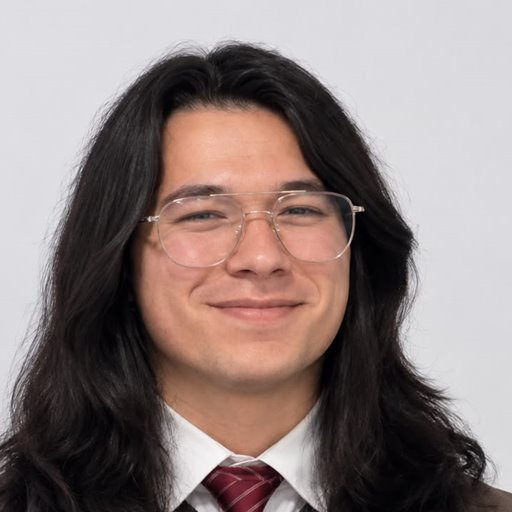
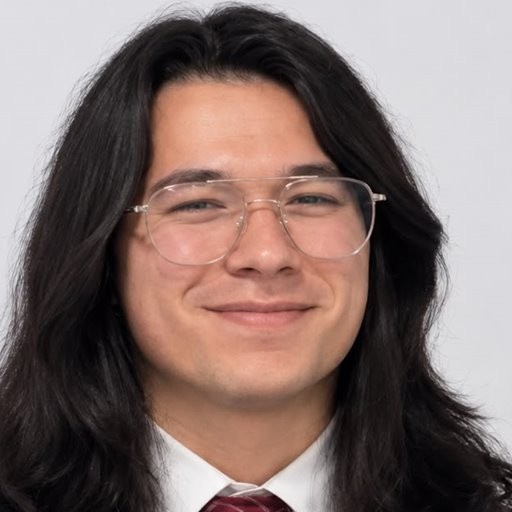
fix: centrar la cara en la foto de perfil
Recorte 620×620 centrado en el rostro y ?v=3 para evitar la caché.

diff --git a/index.html b/index.html
@@ -74,7 +74,7 @@
 
     <!-- Hero ---------------------------------------------------------------- -->
     <section class="card hero" aria-labelledby="hero-name">
-      <img class="hero-photo" src="/assets/img/retrato.jpg" alt="Leonel Navarro Valades" width="128" height="128" />
+      <img class="hero-photo" src="/assets/img/retrato.jpg?v=3" alt="Leonel Navarro Valades" width="128" height="128" />
       <div>
         <h1 id="hero-name">Leonel Navarro Valades</h1>
         <p class="hero-role" data-i18n="hero.role">Ingeniero de software · Machine Learning aplicado al sector público</p>

diff --git a/cv/index.html b/cv/index.html
@@ -64,7 +64,7 @@
   <main class="cv">
 
     <header class="cv-header">
-      <img class="avatar" src="/assets/img/retrato.jpg" alt="Leonel Navarro Valades" width="112" height="112" />
+      <img class="avatar" src="/assets/img/retrato.jpg?v=3" alt="Leonel Navarro Valades" width="112" height="112" />
       <div class="identity">
         <h1>Leonel Navarro Valades</h1>
         <p class="role" data-i18n="role">Ingeniero en Sistemas Computacionales</p>
